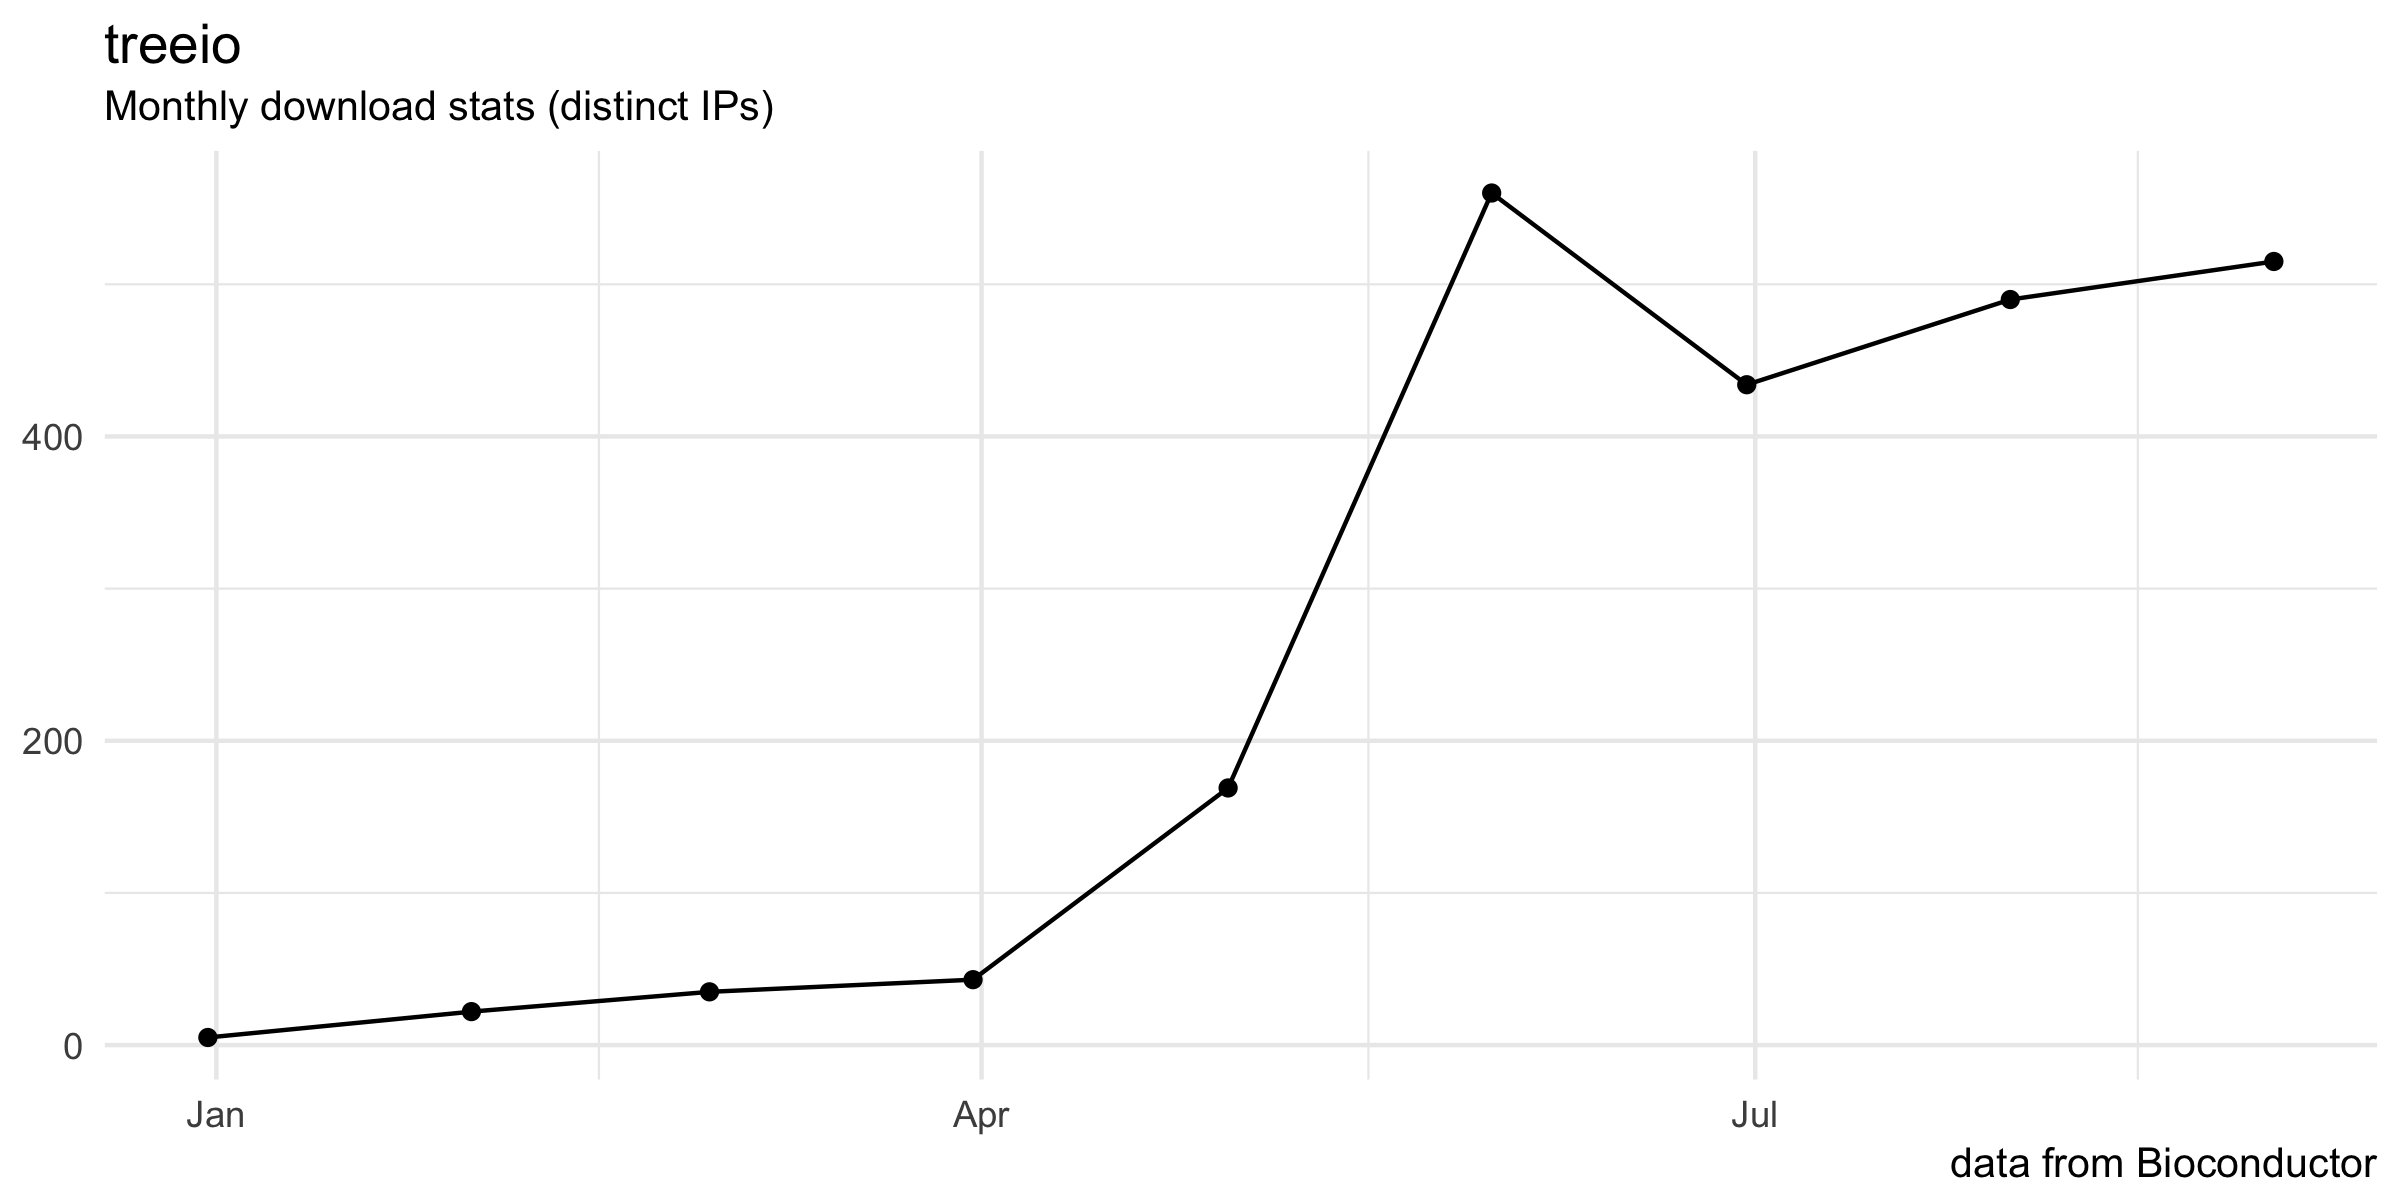
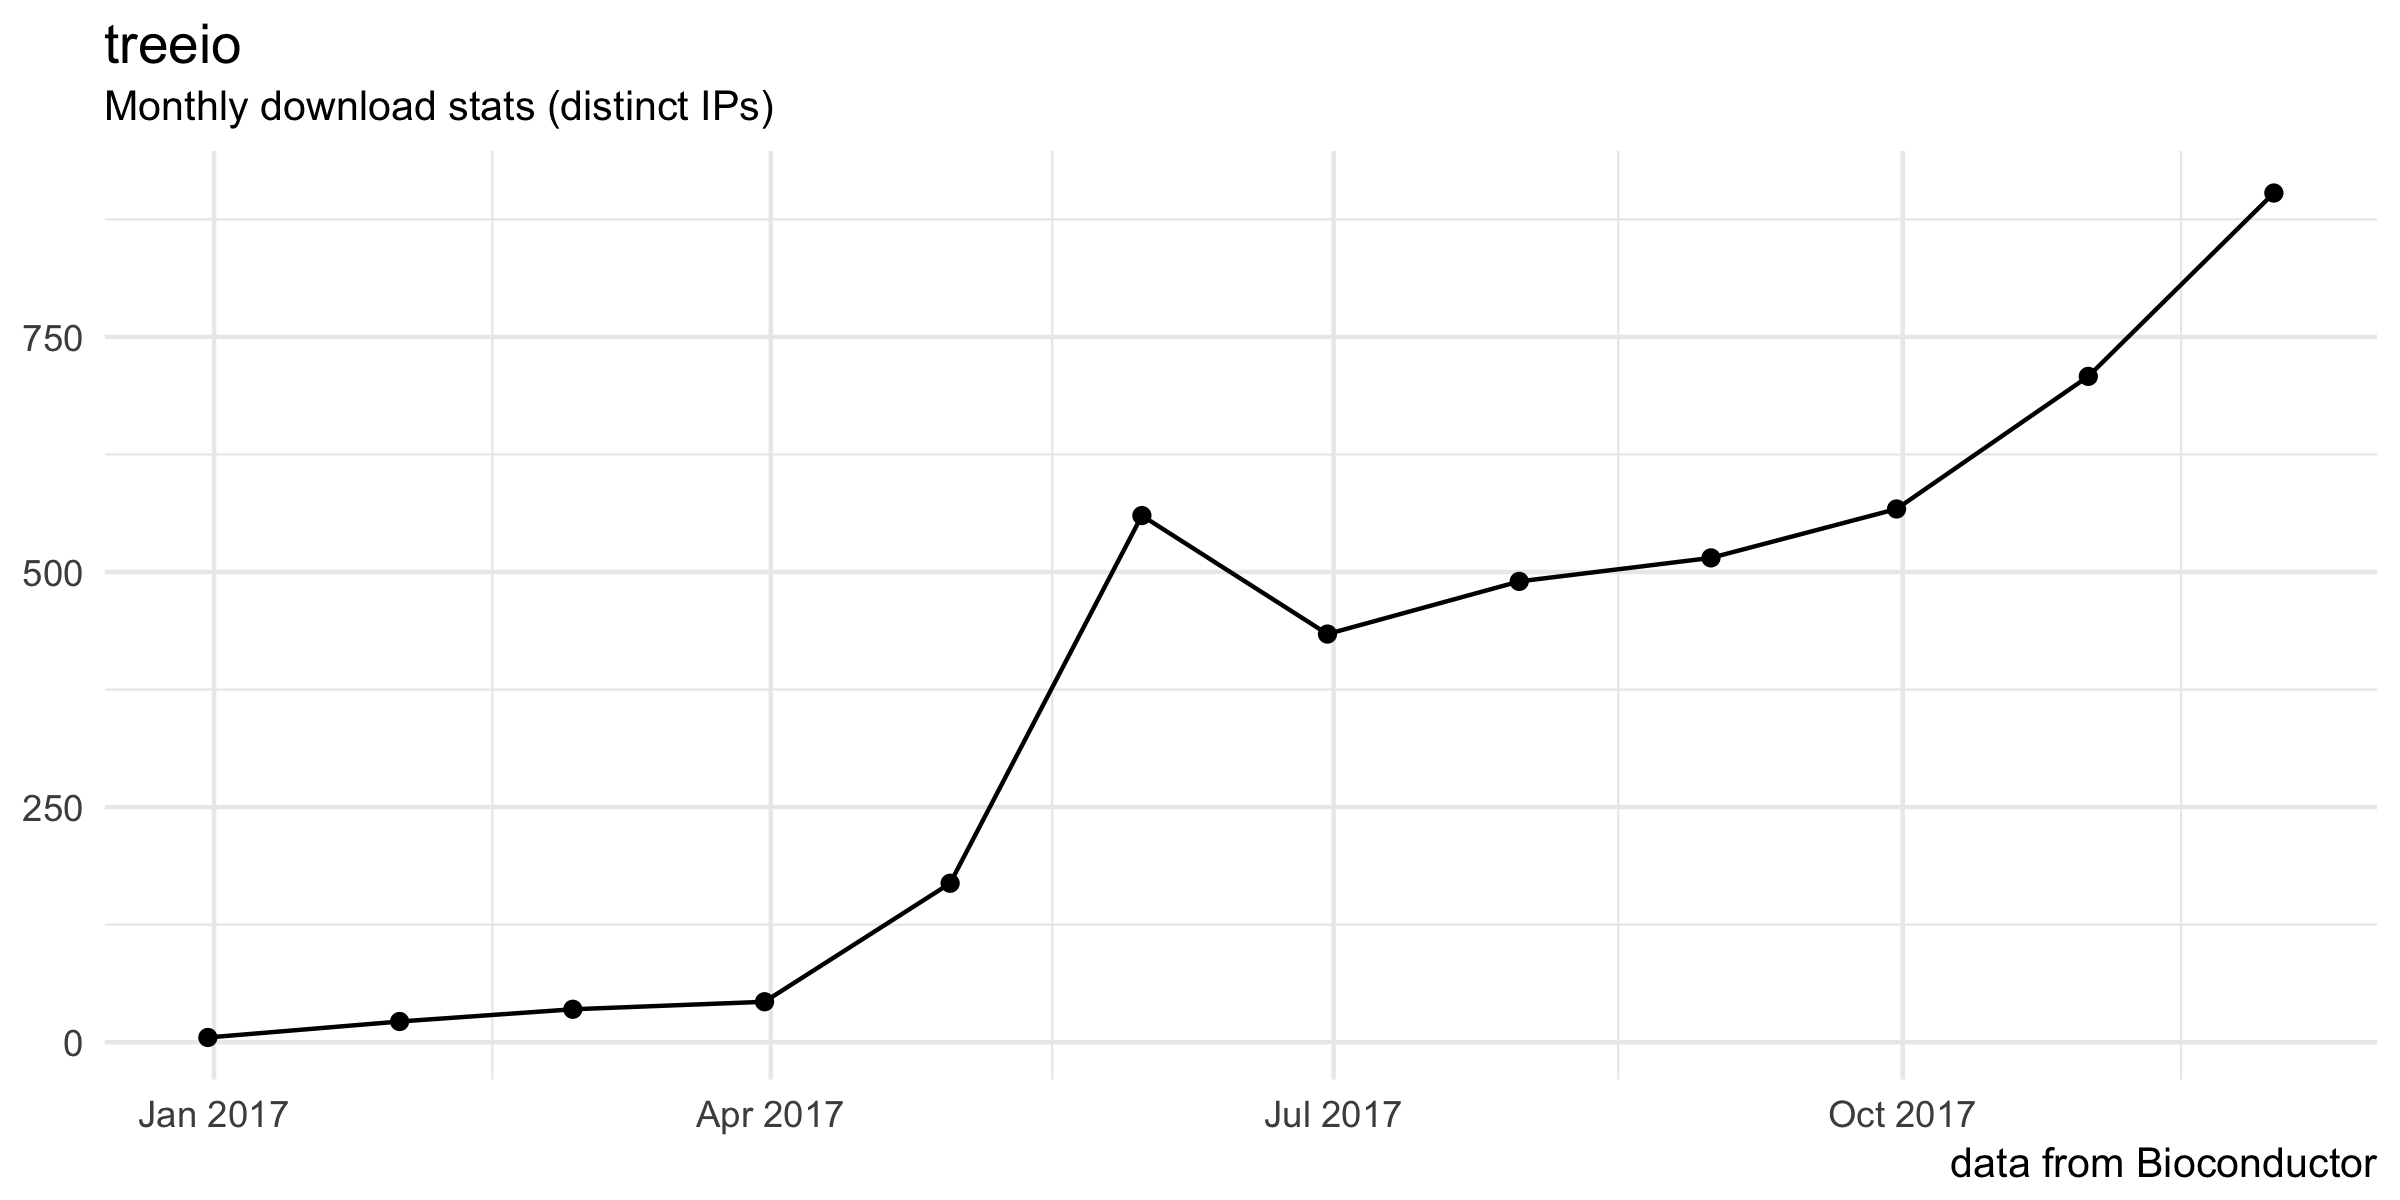
update docs

diff --git a/README.md b/README.md
@@ -4,19 +4,11 @@ treeio: Base classes and functions for parsing and exporting phylogenetic tree
 
 <img src="https://raw.githubusercontent.com/Bioconductor/BiocStickers/master/treeio/treeio.png" height="200" align="right" />
 
-[![releaseVersion](https://img.shields.io/badge/release%20version-1.0.2-green.svg?style=flat)](https://bioconductor.org/packages/treeio) [![develVersion](https://img.shields.io/badge/devel%20version-1.1.2-green.svg?style=flat)](https://github.com/guangchuangyu/treeio) [![Bioc](http://www.bioconductor.org/shields/years-in-bioc/treeio.svg)](https://www.bioconductor.org/packages/devel/bioc/html/treeio.html#since) [![total](https://img.shields.io/badge/downloads-2697/total-blue.svg?style=flat)](https://bioconductor.org/packages/stats/bioc/treeio) [![month](https://img.shields.io/badge/downloads-515/month-blue.svg?style=flat)](https://bioconductor.org/packages/stats/bioc/treeio)
+[![releaseVersion](https://img.shields.io/badge/release%20version-1.2.1-green.svg?style=flat)](https://bioconductor.org/packages/treeio) [![develVersion](https://img.shields.io/badge/devel%20version-1.3.7-green.svg?style=flat)](https://github.com/guangchuangyu/treeio) [![Bioc](http://www.bioconductor.org/shields/years-in-bioc/treeio.svg)](https://www.bioconductor.org/packages/devel/bioc/html/treeio.html#since) [![total](https://img.shields.io/badge/downloads-4638/total-blue.svg?style=flat)](https://bioconductor.org/packages/stats/bioc/treeio) [![month](https://img.shields.io/badge/downloads-903/month-blue.svg?style=flat)](https://bioconductor.org/packages/stats/bioc/treeio)
 
-[![Project Status: Active - The project has reached a stable, usable state and is being actively developed.](http://www.repostatus.org/badges/latest/active.svg)](http://www.repostatus.org/#active) [![codecov](https://codecov.io/gh/GuangchuangYu/treeio/branch/master/graph/badge.svg)](https://codecov.io/gh/GuangchuangYu/treeio) [![Last-changedate](https://img.shields.io/badge/last%20change-2017--09--29-green.svg)](https://github.com/GuangchuangYu/treeio/commits/master) [![GitHub forks](https://img.shields.io/github/forks/GuangchuangYu/treeio.svg)](https://github.com/GuangchuangYu/treeio/network) [![GitHub stars](https://img.shields.io/github/stars/GuangchuangYu/treeio.svg)](https://github.com/GuangchuangYu/treeio/stargazers)
+[![Project Status: Active - The project has reached a stable, usable state and is being actively developed.](http://www.repostatus.org/badges/latest/active.svg)](http://www.repostatus.org/#active) [![codecov](https://codecov.io/gh/GuangchuangYu/treeio/branch/master/graph/badge.svg)](https://codecov.io/gh/GuangchuangYu/treeio) [![Last-changedate](https://img.shields.io/badge/last%20change-2017--12--11-green.svg)](https://github.com/GuangchuangYu/treeio/commits/master) [![GitHub forks](https://img.shields.io/github/forks/GuangchuangYu/treeio.svg)](https://github.com/GuangchuangYu/treeio/network) [![GitHub stars](https://img.shields.io/github/stars/GuangchuangYu/treeio.svg)](https://github.com/GuangchuangYu/treeio/stargazers)
 
 [![platform](http://www.bioconductor.org/shields/availability/devel/treeio.svg)](https://www.bioconductor.org/packages/devel/bioc/html/treeio.html#archives) [![Build Status](http://www.bioconductor.org/shields/build/devel/bioc/treeio.svg)](https://bioconductor.org/checkResults/devel/bioc-LATEST/treeio/) [![Linux/Mac Travis Build Status](https://img.shields.io/travis/GuangchuangYu/treeio/master.svg?label=Mac%20OSX%20%26%20Linux)](https://travis-ci.org/GuangchuangYu/treeio) [![AppVeyor Build Status](https://img.shields.io/appveyor/ci/Guangchuangyu/treeio/master.svg?label=Windows)](https://ci.appveyor.com/project/GuangchuangYu/treeio) [![Twitter](https://img.shields.io/twitter/url/https/github.com/GuangchuangYu/treeio.svg?style=social)](https://twitter.com/intent/tweet?hashtags=treeio&url=http://onlinelibrary.wiley.com/doi/10.1111/2041-210X.12628/abstract&screen_name=guangchuangyu)
-
-------------------------------------------------------------------------
-
-`treeio` was splited from `ggtree` package, please cite the following article when using `treeio`:
-
-**G Yu**, DK Smith, H Zhu, Y Guan, TTY Lam<sup>\*</sup>. ggtree: an R package for visualization and annotation of phylogenetic trees with their covariates and other associated data. ***Methods in Ecology and Evolution***. 2017, 8(1):28-36.
-
-[![doi](https://img.shields.io/badge/doi-10.1111/2041--210X.12628-green.svg?style=flat)](http://dx.doi.org/10.1111/2041-210X.12628) [![Altmetric](https://img.shields.io/badge/Altmetric-341-green.svg?style=flat)](https://www.altmetric.com/details/10533079) [![citation](https://img.shields.io/badge/cited%20by-40-green.svg?style=flat)](https://scholar.google.com.hk/scholar?oi=bibs&hl=en&cites=7268358477862164627)
 
 ------------------------------------------------------------------------
 
@@ -27,14 +19,8 @@ For details, please visit our project website, <https://guangchuangyu.github.io/
 -   [Featured Articles](https://guangchuangyu.github.io/treeio/featuredArticles/)
 -   [Feedback](https://guangchuangyu.github.io/treeio/#feedback)
 
-### Citation
-
-[![citation](https://img.shields.io/badge/cited%20by-40-green.svg?style=flat)](https://scholar.google.com.hk/scholar?oi=bibs&hl=en&cites=7268358477862164627)
-
-<img src="docs/images/citation.png" width="890"/>
-
 ### Download stats
 
-[![download](http://www.bioconductor.org/shields/downloads/treeio.svg)](https://bioconductor.org/packages/stats/bioc/treeio) [![total](https://img.shields.io/badge/downloads-2697/total-blue.svg?style=flat)](https://bioconductor.org/packages/stats/bioc/treeio) [![month](https://img.shields.io/badge/downloads-515/month-blue.svg?style=flat)](https://bioconductor.org/packages/stats/bioc/treeio)
+[![download](http://www.bioconductor.org/shields/downloads/treeio.svg)](https://bioconductor.org/packages/stats/bioc/treeio) [![total](https://img.shields.io/badge/downloads-4638/total-blue.svg?style=flat)](https://bioconductor.org/packages/stats/bioc/treeio) [![month](https://img.shields.io/badge/downloads-903/month-blue.svg?style=flat)](https://bioconductor.org/packages/stats/bioc/treeio)
 
 <img src="docs/images/dlstats.png" width="890"/>
